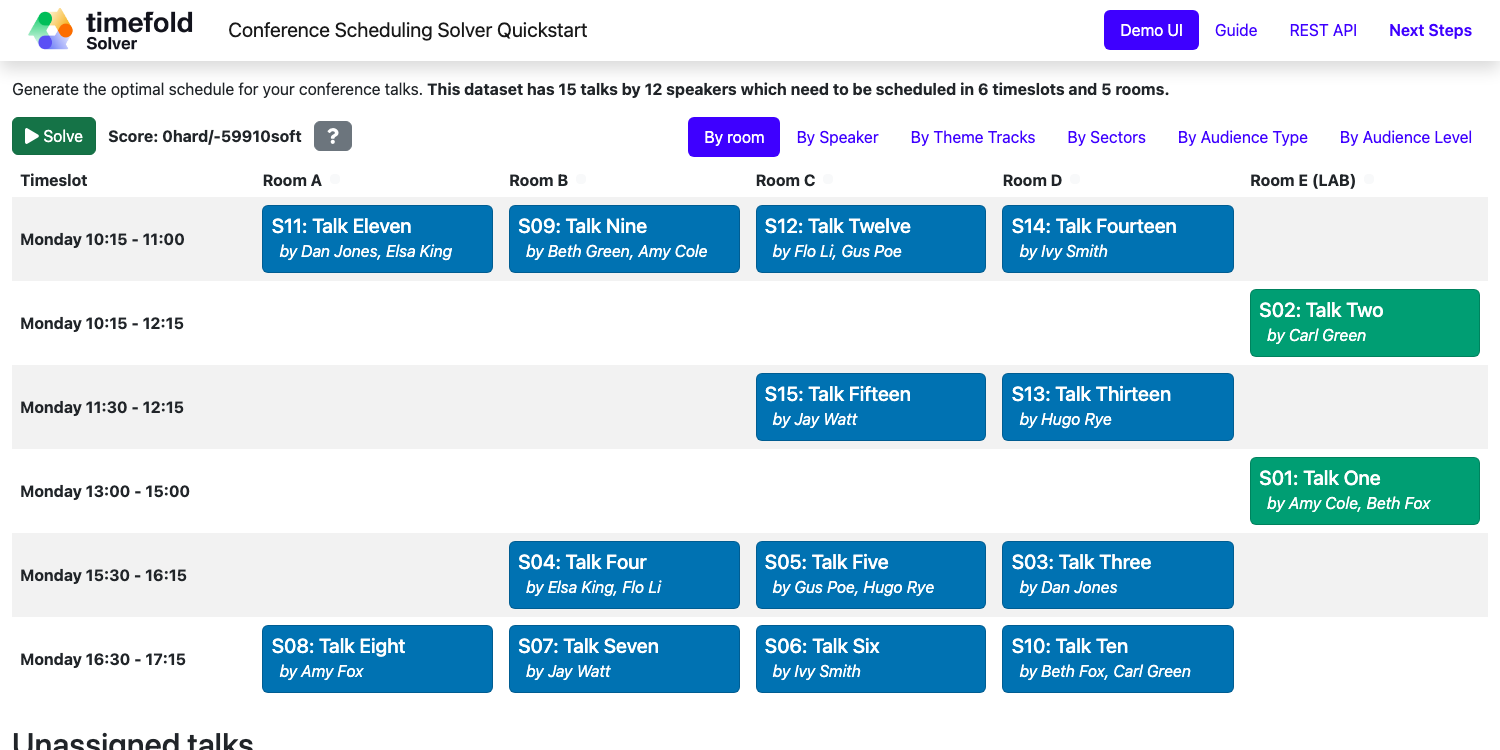
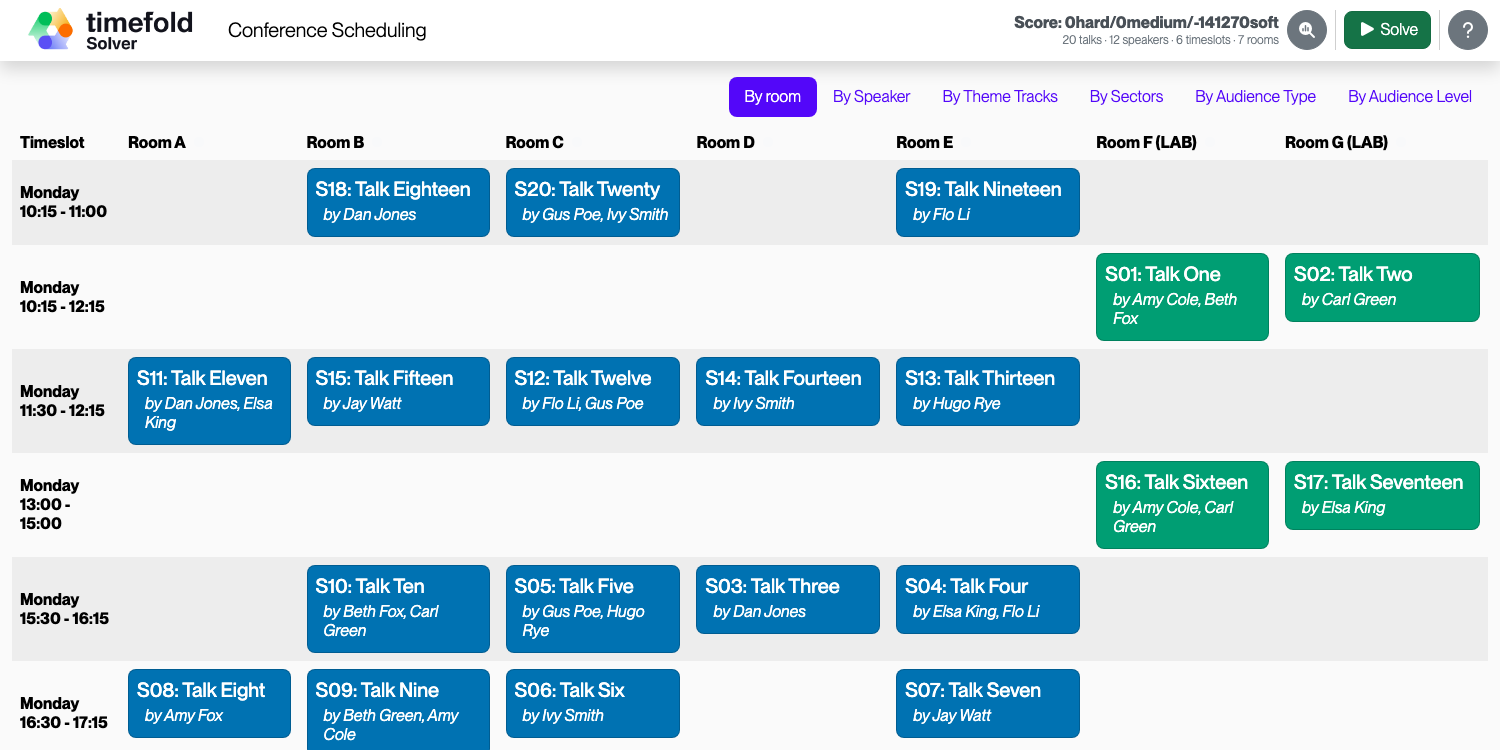
chore: update screenshots and script

diff --git a/run-all-quarkus.java b/run-all-quarkus.java
@@ -123,7 +123,8 @@ class App implements Runnable {
                     // Check if pom.xml mentions "quarkus" (dependency, plugin, etc.)
                     boolean isQuarkusProject = false;
                     try (Stream<String> lines = Files.lines(pom)) {
-                        isQuarkusProject = lines.anyMatch(l -> l.toLowerCase().contains("quarkus"));
+                        isQuarkusProject = lines.anyMatch(l -> l.toLowerCase().contains("quarkus")
+                                || l.toLowerCase().contains("timefold-solver-service-parent"));
                     } catch (IOException e) {
                         System.err.println("Could not read pom.xml for " + dir + ": " + e.getMessage());
                     }
